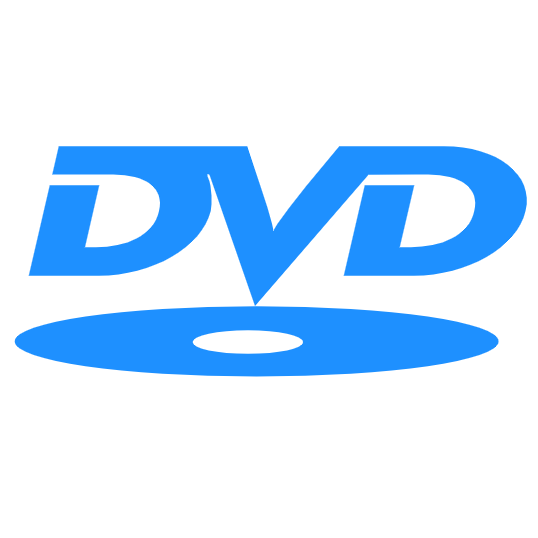
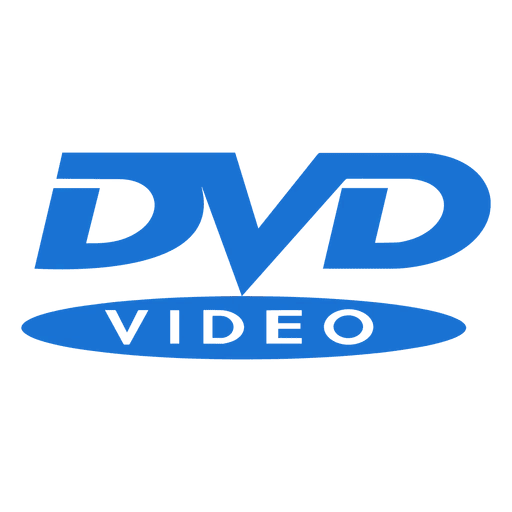
Implemented color changing on bounce

Changed region(s): [[0.0312, 0.25, 1.0, 0.7188]]

diff --git a/main.py b/main.py
@@ -10,6 +10,7 @@ import win32gui
 #Needed for exit key
 from pynput import keyboard
 
+import random
 
 #Size of the image
 w, h = 140, 140
@@ -25,9 +26,15 @@ py.display.set_caption("DvD_Logo")
 clock = py.time.Clock()
 running = True
 
-#Loads the logo in transparent mode
-blue_dvd = py.image.load('./blueDvD.png').convert_alpha()
-blue_dvd = py.transform.scale(blue_dvd,(w,h))
+colors = ['red','yellow','blue','pink','green','orange']
+
+#Loads the logos in transparent mode
+dvds = []
+for color in colors:
+    dvds.append(py.transform.scale(py.image.load(f'./{color}DvD.png').convert_alpha(),(w,h)))
+
+dvd = random.choice(dvds)
+
 
 # Getting information of the current active window
 hwnd = py.display.get_wm_info()["window"]
@@ -75,9 +82,10 @@ while running:
     #Checks if the Image is by the edge of the screen
     if not 0 < y < screen_full_size[1] - h:
         y_inc = y_inc * -1
+        dvd = random.choice([i for i in dvds if i != dvd])
     if not 0 < x < screen_full_size[0] - w:
         x_inc = x_inc * -1
-    
+        dvd = random.choice([i for i in dvds if i != dvd])
     #Increments and moves the screen
     y += y_inc
     x += x_inc
@@ -91,7 +99,7 @@ while running:
     screen.fill((0,0,0))
 
     #Adds the dvd logo to the screen
-    screen.blit(blue_dvd,(0,0)) 
+    screen.blit(dvd,(0,0)) 
 
     # flip() the display to put your work on screen
     py.display.flip()
